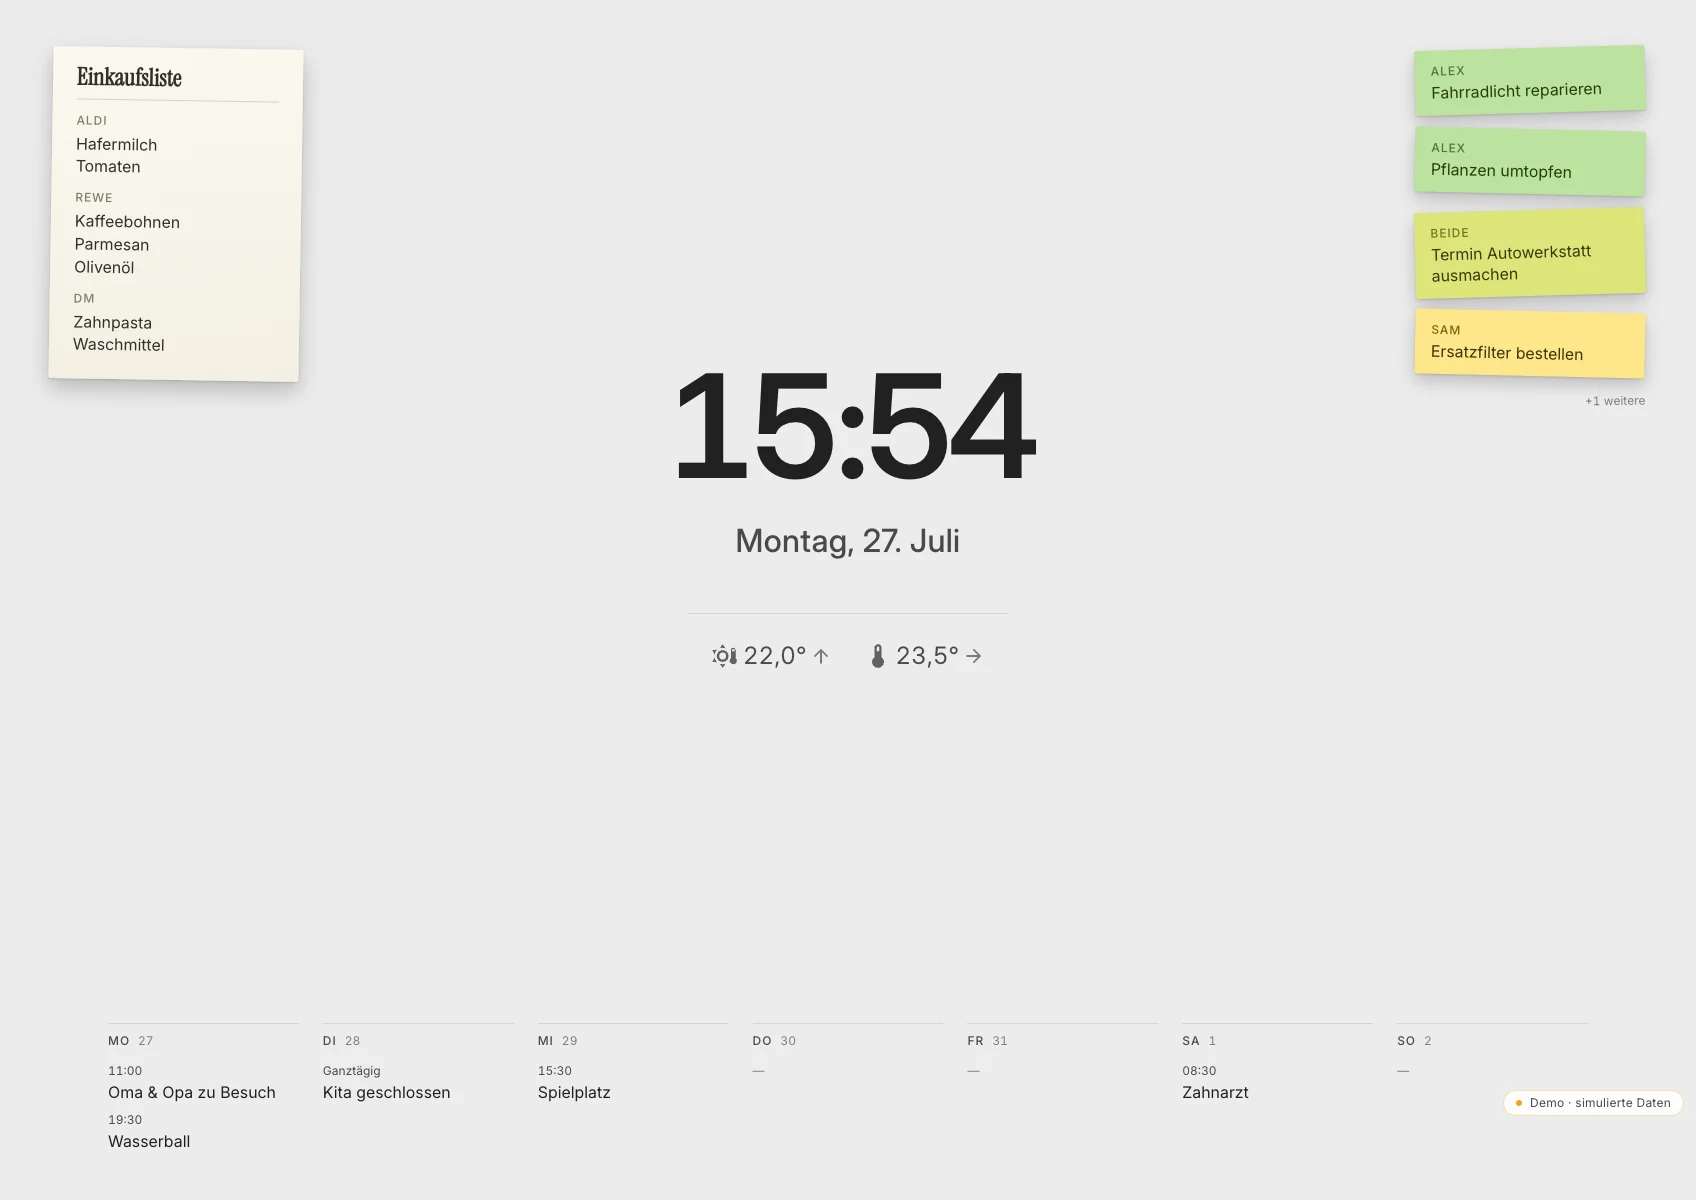
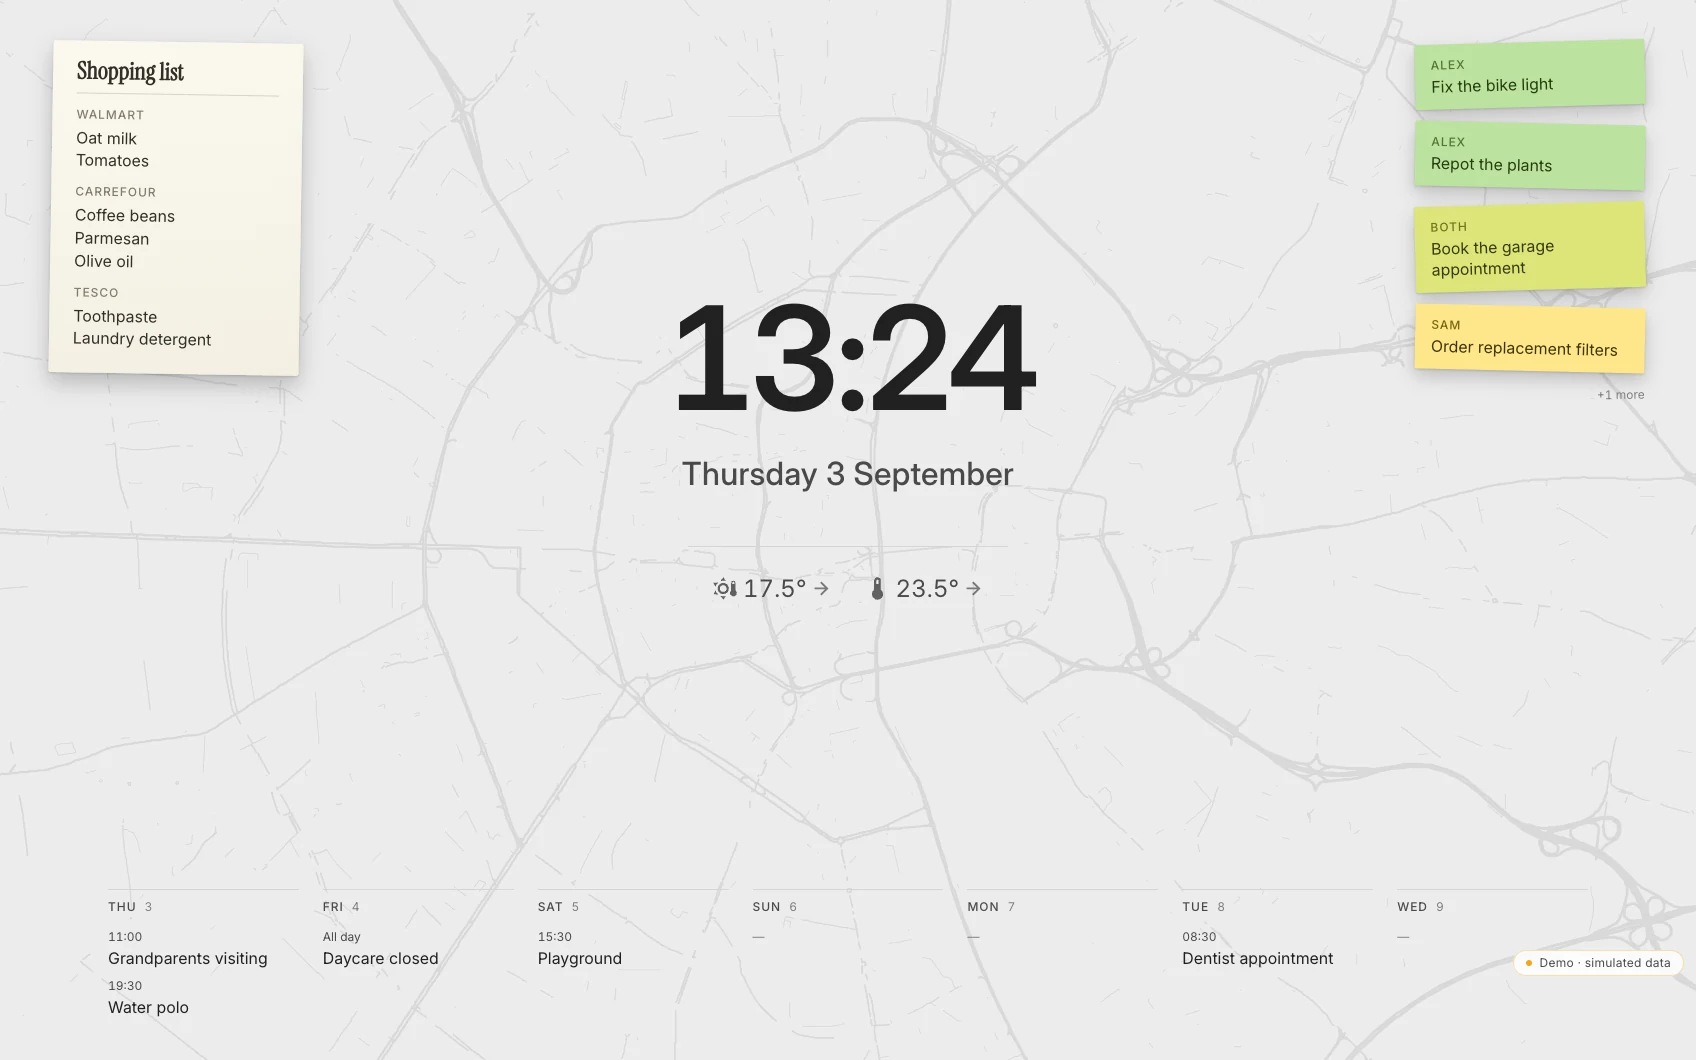
chore(public): promote private source ad8cb3dc53f3
Private-Source: ad8cb3dc53f3f971a3f65a26382c800600b42f38

diff --git a/website/index.html b/website/index.html
@@ -89,7 +89,7 @@
            srcset="media/hero-home-700.webp 700w, media/hero-home-1100.webp 1100w, media/hero-home.webp 1696w"
            sizes="(min-width: 1360px) 1296px, 100vw"
            width="1696" height="960" fetchpriority="high"
-           alt="The Hauser home screen: a compact room-control panel on the left and a warm illustration of the living room on the right, with the room's lights, climate and scenes reachable in one touch.">
+           alt="The Hauser home screen: a compact room-control panel on the left with rooms, scenes, lights and the room's climate, and a warm illustration of the living room on the right. The title bar holds the clock, the edit switch and the standby button.">
     </div>
     <p class="device-caption">The room comes first. Controls stay to the side, where they belong.</p>
   </div>
@@ -192,6 +192,91 @@
              alt="The same home screen after dark: identical layout, dark surfaces, and the room illustration lit only by its lamps.">
       </div>
       <p class="device-caption">The same panel, the same second — only the sun moved.</p>
+    </div>
+  </div>
+</section>
+
+<!-- ── Standby ───────────────────────────────────────────────────────── -->
+<section id="standby">
+  <div class="wrap">
+    <div class="showcase-head">
+      <p class="eyebrow">Standby</p>
+      <h2>Most of the day, a wall panel is a resting screen. So the resting screen got the most care.</h2>
+      <p class="body-text">
+        After a few idle minutes the panel settles into standby: a large clock,
+        the week ahead, the household's post-its, the shopping list — and behind
+        all of it, faintly, the streets of your own neighbourhood.
+      </p>
+      <p class="body-text">
+        The map is not a texture. The Hauser server renders it once from
+        OpenStreetMap data around the location Home Assistant already knows,
+        as a single monochrome SVG. On the panel it is used as a mask at ten
+        percent opacity in the current text colour, so the same file serves
+        day and night and never triggers a second render. It is generated in
+        the background and never in the way of the clock.
+      </p>
+    </div>
+  </div>
+  <div class="showcase-wide">
+    <div class="theme-demo" data-mode="day">
+      <div class="theme-switch" role="group" aria-label="Show the standby screen by day or by night">
+        <button type="button" class="theme-btn" data-mode="day" aria-pressed="true">
+          <svg viewBox="0 0 24 24" fill="none" stroke="currentColor" stroke-width="1.9" stroke-linecap="round" aria-hidden="true">
+            <circle cx="12" cy="12" r="4.2"/>
+            <path d="M12 2.6v2.2M12 19.2v2.2M2.6 12h2.2M19.2 12h2.2M5.4 5.4l1.6 1.6M17 17l1.6 1.6M18.6 5.4 17 7M7 17l-1.6 1.6"/>
+          </svg>
+          Day
+        </button>
+        <button type="button" class="theme-btn" data-mode="night" aria-pressed="false">
+          <svg viewBox="0 0 24 24" fill="none" stroke="currentColor" stroke-width="1.9" stroke-linecap="round" stroke-linejoin="round" aria-hidden="true">
+            <path d="M20.5 14.6A8.6 8.6 0 0 1 9.4 3.5a8.6 8.6 0 1 0 11.1 11.1Z"/>
+          </svg>
+          Night
+        </button>
+      </div>
+      <div class="device theme-stack reveal">
+        <img class="theme-shot-day" src="media/lockscreen.webp"
+             srcset="media/lockscreen-700.webp 700w, media/lockscreen-1100.webp 1100w, media/lockscreen.webp 1696w"
+             sizes="(min-width: 1360px) 1296px, 100vw"
+             width="1696" height="1060" loading="lazy" decoding="async"
+             alt="The Hauser standby screen by day: a large clock and date in the centre, outdoor and indoor temperature beneath, the week's appointments along the bottom, coloured reminder post-its on the right and the shopping list on the left, all over a faint street map of the neighbourhood.">
+        <img class="theme-shot-night" src="media/lockscreen-dark.webp"
+             srcset="media/lockscreen-dark-700.webp 700w, media/lockscreen-dark-1100.webp 1100w, media/lockscreen-dark.webp 1696w"
+             sizes="(min-width: 1360px) 1296px, 100vw"
+             width="1696" height="1060" loading="lazy" decoding="async"
+             alt="The same standby screen at night: dimmed text on a black background, the same street map now drawn in faint light grey, post-its and the shopping list muted.">
+      </div>
+      <p class="device-caption">One SVG, one mask — the map takes whatever colour the text has.</p>
+    </div>
+  </div>
+  <div class="wrap">
+    <div class="cards">
+      <div class="card reveal">
+        <h3>Your streets, not a stock texture</h3>
+        <p>
+          The location comes from Home Assistant, with browser geolocation and
+          manual coordinates as fallbacks. The radius picks itself — a city
+          centre gets a tighter cut than a village — and the result is stored
+          once for the whole household. Switching it on is a per-panel choice.
+        </p>
+      </div>
+      <div class="card reveal">
+        <h3>Everything on it is a door</h3>
+        <p>
+          Touch the shopping list and you land in the list; touch the week and
+          you land in the calendar; touch a post-it and you are with that
+          person's reminders. Nothing to unlock, nothing to swipe away first.
+        </p>
+      </div>
+      <div class="card reveal">
+        <h3>It knows when to be quiet</h3>
+        <p>
+          Deep at night the screen drops everything but a dimmed red clock, map
+          included. The hourly pixel shift that protects the LCD is a soft
+          slide, not a jump. Loading the map never delays the app start or the
+          moment the panel goes to rest.
+        </p>
+      </div>
     </div>
   </div>
 </section>
@@ -337,6 +422,59 @@
   </div>
 </section>
 
+<!-- ── Bearbeiten und Bedienen ───────────────────────────────────────── -->
+<section class="band" id="modes">
+  <div class="wrap">
+    <div class="showcase-head">
+      <p class="eyebrow">Edit and use</p>
+      <h2>Set it up once. Then hand it to the household.</h2>
+      <p class="body-text">
+        One mark in the middle of the title bar switches the panel between two
+        modes. In edit mode, a long-press opens the configuration behind
+        anything: the home layout, a room's devices, its scenes, the central
+        climate control, the system area. In use mode, exactly those doors are
+        closed. Lights, heating and media respond as before — a long-press on
+        a lamp still opens its detail — because that is use, not configuration.
+      </p>
+      <p class="body-text">
+        The mode belongs to the device, not to the household: the hallway
+        panel can be locked while your own phone keeps configuring. A PIN can
+        guard the way back, and the panel can fall back into use mode by
+        itself after a few idle minutes. Someone who tries a locked long-press
+        twice is told where the switch is — once might have been an accident.
+      </p>
+    </div>
+  </div>
+  <div class="showcase-wide">
+    <div class="trio">
+      <div class="trio-item reveal">
+        <div class="device">
+          <img src="media/mode-edit.webp" width="1200" height="960" loading="lazy" decoding="async"
+               sizes="(min-width: 1360px) 410px, (min-width: 880px) 31vw, 100vw"
+               alt="Detail of the title bar with the edit mark: a ring with a core and rays around it, and the notice 'Edit mode on' beneath it.">
+        </div>
+        <p class="device-caption"><span class="shot-label shot-label-out">Edit</span> Rays on the mark: configuration is open.</p>
+      </div>
+      <div class="trio-item reveal">
+        <div class="device">
+          <img src="media/mode-use.webp" width="1200" height="960" loading="lazy" decoding="async"
+               sizes="(min-width: 1360px) 410px, (min-width: 880px) 31vw, 100vw"
+               alt="The same title bar in use mode: the mark without rays, and the notice 'Use mode on — configuration locked' beneath it.">
+        </div>
+        <p class="device-caption"><span class="shot-label">Use</span> Same mark, one step calmer. A one-line notice, not a lecture.</p>
+      </div>
+      <div class="trio-item reveal">
+        <div class="device">
+          <img src="media/mode-pin.webp" width="1200" height="960" loading="lazy" decoding="async"
+               sizes="(min-width: 1360px) 410px, (min-width: 880px) 31vw, 100vw"
+               alt="The PIN dialog under the title bar: the title 'Enter PIN', four dots with the first one filled, and a numeric keypad with Cancel and backspace.">
+        </div>
+        <p class="device-caption"><span class="shot-label">PIN</span> Optional. Guards the way back to editing, never the light switch.</p>
+      </div>
+    </div>
+  </div>
+</section>
+
 <!-- ── Alltag ────────────────────────────────────────────────────────── -->
 <section id="everyday">
   <div class="wrap">
@@ -346,9 +484,9 @@
       <p class="body-text">
         Lights and rooms are what a home dashboard gets sold on. What a
         household actually touches every day is smaller than that: who still has
-        to do what, and what is missing from the fridge. Those two got the same
-        care as the room screens — and they are the reason people who never open
-        Home Assistant open this.
+        to do what, what is missing from the fridge, and what is on this week.
+        Those screens got the same care as the room screens — and they are the
+        reason people who never open Home Assistant open this.
       </p>
     </div>
   </div>
@@ -366,13 +504,13 @@
       </div>
       <div class="pair-item reveal">
         <div class="device">
-          <img src="media/lockscreen.webp"
-               srcset="media/lockscreen-700.webp 700w, media/lockscreen-1100.webp 1100w, media/lockscreen.webp 1696w"
+          <img src="media/calendar.webp"
+               srcset="media/calendar-700.webp 700w, media/calendar-1100.webp 1100w, media/calendar.webp 1696w"
                sizes="(min-width: 1360px) 630px, (min-width: 760px) 47vw, 100vw"
                width="1696" height="1200" loading="lazy" decoding="async"
-               alt="The Hauser ambient lock screen with a large clock, the date, the week's appointments, reminder post-its and the shopping list arranged for glanceable use on a wall panel.">
+               alt="The calendar screen showing a month grid with today highlighted, timed events listed per day and multi-day events such as holidays drawn as bars across the week.">
         </div>
-        <p class="device-caption">The same lists on the resting screen — touch one and you are in it.</p>
+        <p class="device-caption">The month as a wall calendar — today marked, multi-day events as bars.</p>
       </div>
     </div>
   </div>
@@ -396,11 +534,12 @@
         </p>
       </div>
       <div class="card reveal">
-        <h3>Already on the resting screen</h3>
+        <h3>The calendars you already keep</h3>
         <p>
-          The ambient screen carries the week's appointments, the post-its and
-          the shopping list without anyone unlocking anything. Touch the list
-          and you land in the list; touch the week and you land in the calendar.
+          Events come from Home Assistant's calendar entities, so whatever the
+          household already shares shows up as one month, each source in its
+          own colour. The coming week is on the standby screen too, without
+          anyone unlocking anything.
         </p>
       </div>
     </div>
@@ -468,15 +607,17 @@
         <h2>Same language, different hand.</h2>
         <p class="body-text">
           The phone layout is not a squeezed panel. Navigation moves to the
-          thumb, rooms become a drill-down instead of an overlay, and the
-          destinations you use most sit in the bottom bar in an order you
-          choose. The tokens, motion and interaction rules stay identical.
+          thumb as a floating bar, rooms become a drill-down instead of an
+          overlay, and the destinations you use most sit in that bar in an
+          order you choose. The tokens, motion and interaction rules stay
+          identical.
         </p>
       </div>
-      <div class="device reveal" style="max-width:340px;margin-inline:auto">
-        <img src="media/phone.webp" width="390" height="844" loading="lazy" decoding="async"
-             sizes="(min-width: 880px) 316px, 316px"
-             alt="The phone layout showing room cards stacked vertically with a four-item bottom navigation bar.">
+      <div class="phone reveal">
+        <div class="phone-screen">
+          <img src="media/phone.webp" width="390" height="844" loading="lazy" decoding="async"
+               alt="The phone layout: six room cards with their illustrations in two columns, a row with the all-off switch, the central heating target and the holiday mode, and a floating bottom bar with Home, Energy, Calendar and More.">
+        </div>
       </div>
     </div>
   </div>
@@ -612,12 +753,10 @@
 </footer>
 
 <script>
-  // Tag/Nacht-Vorführung. Startzustand folgt dem Farbschema des Besuchers —
-  // wer die Seite nachts dunkel öffnet, sieht das Panel zuerst nachts.
-  (function () {
-    var demo = document.querySelector('.theme-demo');
-    if (!demo) return;
-
+  // Tag/Nacht-Vorführungen (Raumpanel und Standby). Startzustand folgt dem
+  // Farbschema des Besuchers — wer die Seite nachts dunkel öffnet, sieht das
+  // Panel zuerst nachts.
+  function setupThemeDemo(demo) {
     var buttons = demo.querySelectorAll('.theme-btn');
     var shots = {
       day: demo.querySelector('.theme-shot-day'),
@@ -641,6 +780,11 @@
     }
 
     apply(window.matchMedia && window.matchMedia('(prefers-color-scheme: dark)').matches ? 'night' : 'day');
+  }
+
+  (function () {
+    var demos = document.querySelectorAll('.theme-demo');
+    for (var i = 0; i < demos.length; i++) setupThemeDemo(demos[i]);
   })();
 </script>
 

diff --git a/website/site.css b/website/site.css
@@ -1190,3 +1190,92 @@ section[id] { scroll-margin-block-start: 20px; }
    Vorsprung, den `.device` sonst über sich trägt, verschiebt das Bild dort
    nach unten statt Luft zu schaffen. */
 .split .device { margin-top: 0; }
+
+/* ── Dreiergruppe (Detailausschnitte nebeneinander) ────────────────────── */
+
+.trio {
+  display: grid;
+  gap: clamp(20px, 3vw, 28px);
+  grid-template-columns: 1fr;
+}
+
+@media (min-width: 880px) {
+  .trio { grid-template-columns: 1fr 1fr 1fr; }
+}
+
+.trio .device { margin-top: 0; padding: 8px; }
+.trio .device img { border-radius: 10px; }
+
+/* ── Telefon ──────────────────────────────────────────────────────────────
+   Ein Gerät, kein Kasten: schmale dunkle Blende, große Eckradien, Tasten an
+   den Flanken und ein Hauch Glasreflex. Das Gehäuse bleibt in beiden
+   Farbschemata schwarz — ein Telefon ist ein Objekt, keine Fläche. */
+
+.phone {
+  position: relative;
+  inline-size: min(300px, 100%);
+  margin-inline: auto;
+  padding: 11px;
+  border-radius: 48px;
+  background: linear-gradient(160deg, #3b414a 0%, #171b20 45%, #1f242a 100%);
+  box-shadow:
+    0 0 0 1px rgb(0 0 0 / 0.65),
+    0 1px 0 rgb(255 255 255 / 0.22) inset,
+    0 -1px 0 rgb(0 0 0 / 0.5) inset,
+    0 0 0 1px rgb(255 255 255 / 0.06) inset,
+    0 52px 96px -34px rgb(0 0 0 / 0.75);
+}
+
+@media (prefers-color-scheme: light) {
+  .phone { box-shadow:
+    0 0 0 1px rgb(0 0 0 / 0.5),
+    0 1px 0 rgb(255 255 255 / 0.22) inset,
+    0 -1px 0 rgb(0 0 0 / 0.5) inset,
+    0 0 0 1px rgb(255 255 255 / 0.06) inset,
+    0 44px 80px -30px rgb(20 24 29 / 0.5);
+  }
+}
+
+/* Tasten: links Stumm, Lauter, Leiser; rechts die Standby-Taste. */
+.phone::before,
+.phone::after {
+  content: '';
+  position: absolute;
+  inline-size: 3px;
+  background: #2b3138;
+  border-radius: 2px;
+}
+
+.phone::before {
+  inset-inline-start: -3px;
+  inset-block-start: 96px;
+  block-size: 26px;
+  box-shadow: 0 46px 0 0 #2b3138, 0 100px 0 0 #2b3138;
+}
+
+.phone::after {
+  inset-inline-end: -3px;
+  inset-block-start: 150px;
+  block-size: 76px;
+}
+
+.phone-screen {
+  position: relative;
+  overflow: hidden;
+  border-radius: 38px;
+  background: #000;
+}
+
+.phone-screen img {
+  display: block;
+  inline-size: 100%;
+}
+
+.phone-screen::after {
+  content: '';
+  position: absolute;
+  inset: 0;
+  border-radius: inherit;
+  background: linear-gradient(118deg, rgb(255 255 255 / 0.09) 0%, rgb(255 255 255 / 0.02) 30%, transparent 46%);
+  pointer-events: none;
+}

diff --git a/app/src/lib/server-proxy.test.ts b/app/src/lib/server-proxy.test.ts
@@ -21,6 +21,15 @@ afterEach(async () => {
   for (const directory of tempDirs.splice(0)) rmSync(directory, { recursive: true, force: true });
 });
 
+/* Der Proxy zieht die Paperless-Adresse aus der geteilten Konfiguration vor;
+   ohne eigenen Pfad läse der Test die Konfiguration der Maschine und liefe
+   gegen deren echte Instanz statt gegen den Testserver. */
+function isolatedConfigPath(): string {
+  const root = mkdtempSync(join(tmpdir(), 'hmi-ablage-config-'));
+  tempDirs.push(root);
+  return join(root, 'config.json');
+}
+
 describe('HMI-Backend-Proxy', () => {
   it('erlaubt nur die schmalen ACE-Step- und Bibliotheksrouten', () => {
     const allowed = new Set(['http://test-client.local']);
@@ -196,6 +205,7 @@ describe('HMI-Backend-Proxy', () => {
 
     const server = createHmiServer('server-secret', {
       paperlessPort, paperlessPin: '246810', paperlessToken: 'paperless-secret', allowedOrigins: allowed,
+      configPath: isolatedConfigPath(),
     });
     servers.push(server);
     await new Promise<void>((resolve) => server.listen(0, '127.0.0.1', resolve));
@@ -258,6 +268,7 @@ describe('HMI-Backend-Proxy', () => {
     const allowed = new Set(['http://test-client.local']);
     const server = createHmiServer('server-secret', {
       paperlessPort, paperlessPin: '246810', paperlessToken: 'paperless-secret', allowedOrigins: allowed,
+      configPath: isolatedConfigPath(),
     });
     servers.push(server);
     await new Promise<void>((resolve) => server.listen(0, '127.0.0.1', resolve));
@@ -305,6 +316,7 @@ describe('HMI-Backend-Proxy', () => {
     const allowed = new Set(['http://test-client.local']);
     const server = createHmiServer('server-secret', {
       paperlessPort, paperlessPin: '246810', paperlessToken: 'paperless-secret', allowedOrigins: allowed,
+      configPath: isolatedConfigPath(),
     });
     servers.push(server);
     await new Promise<void>((resolve) => server.listen(0, '127.0.0.1', resolve));
